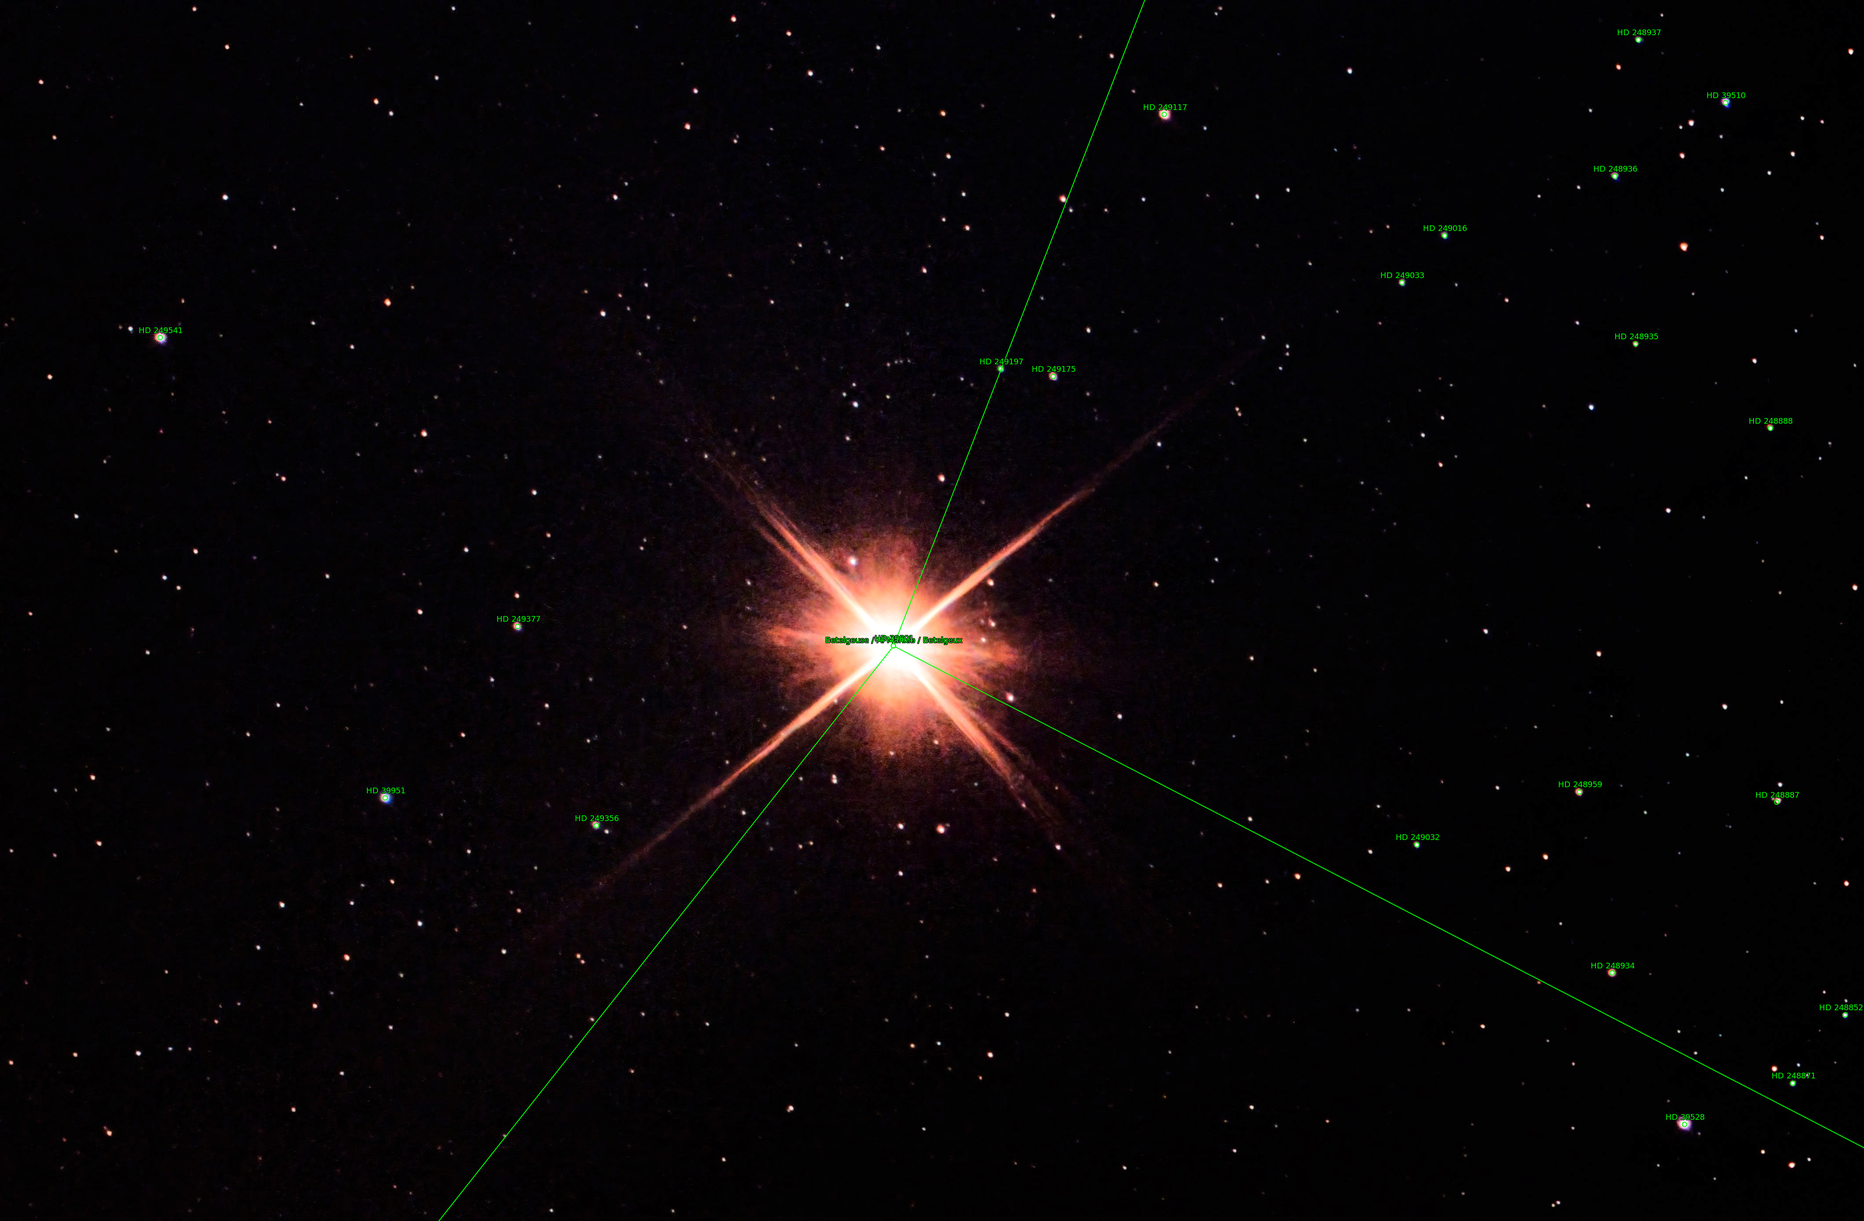
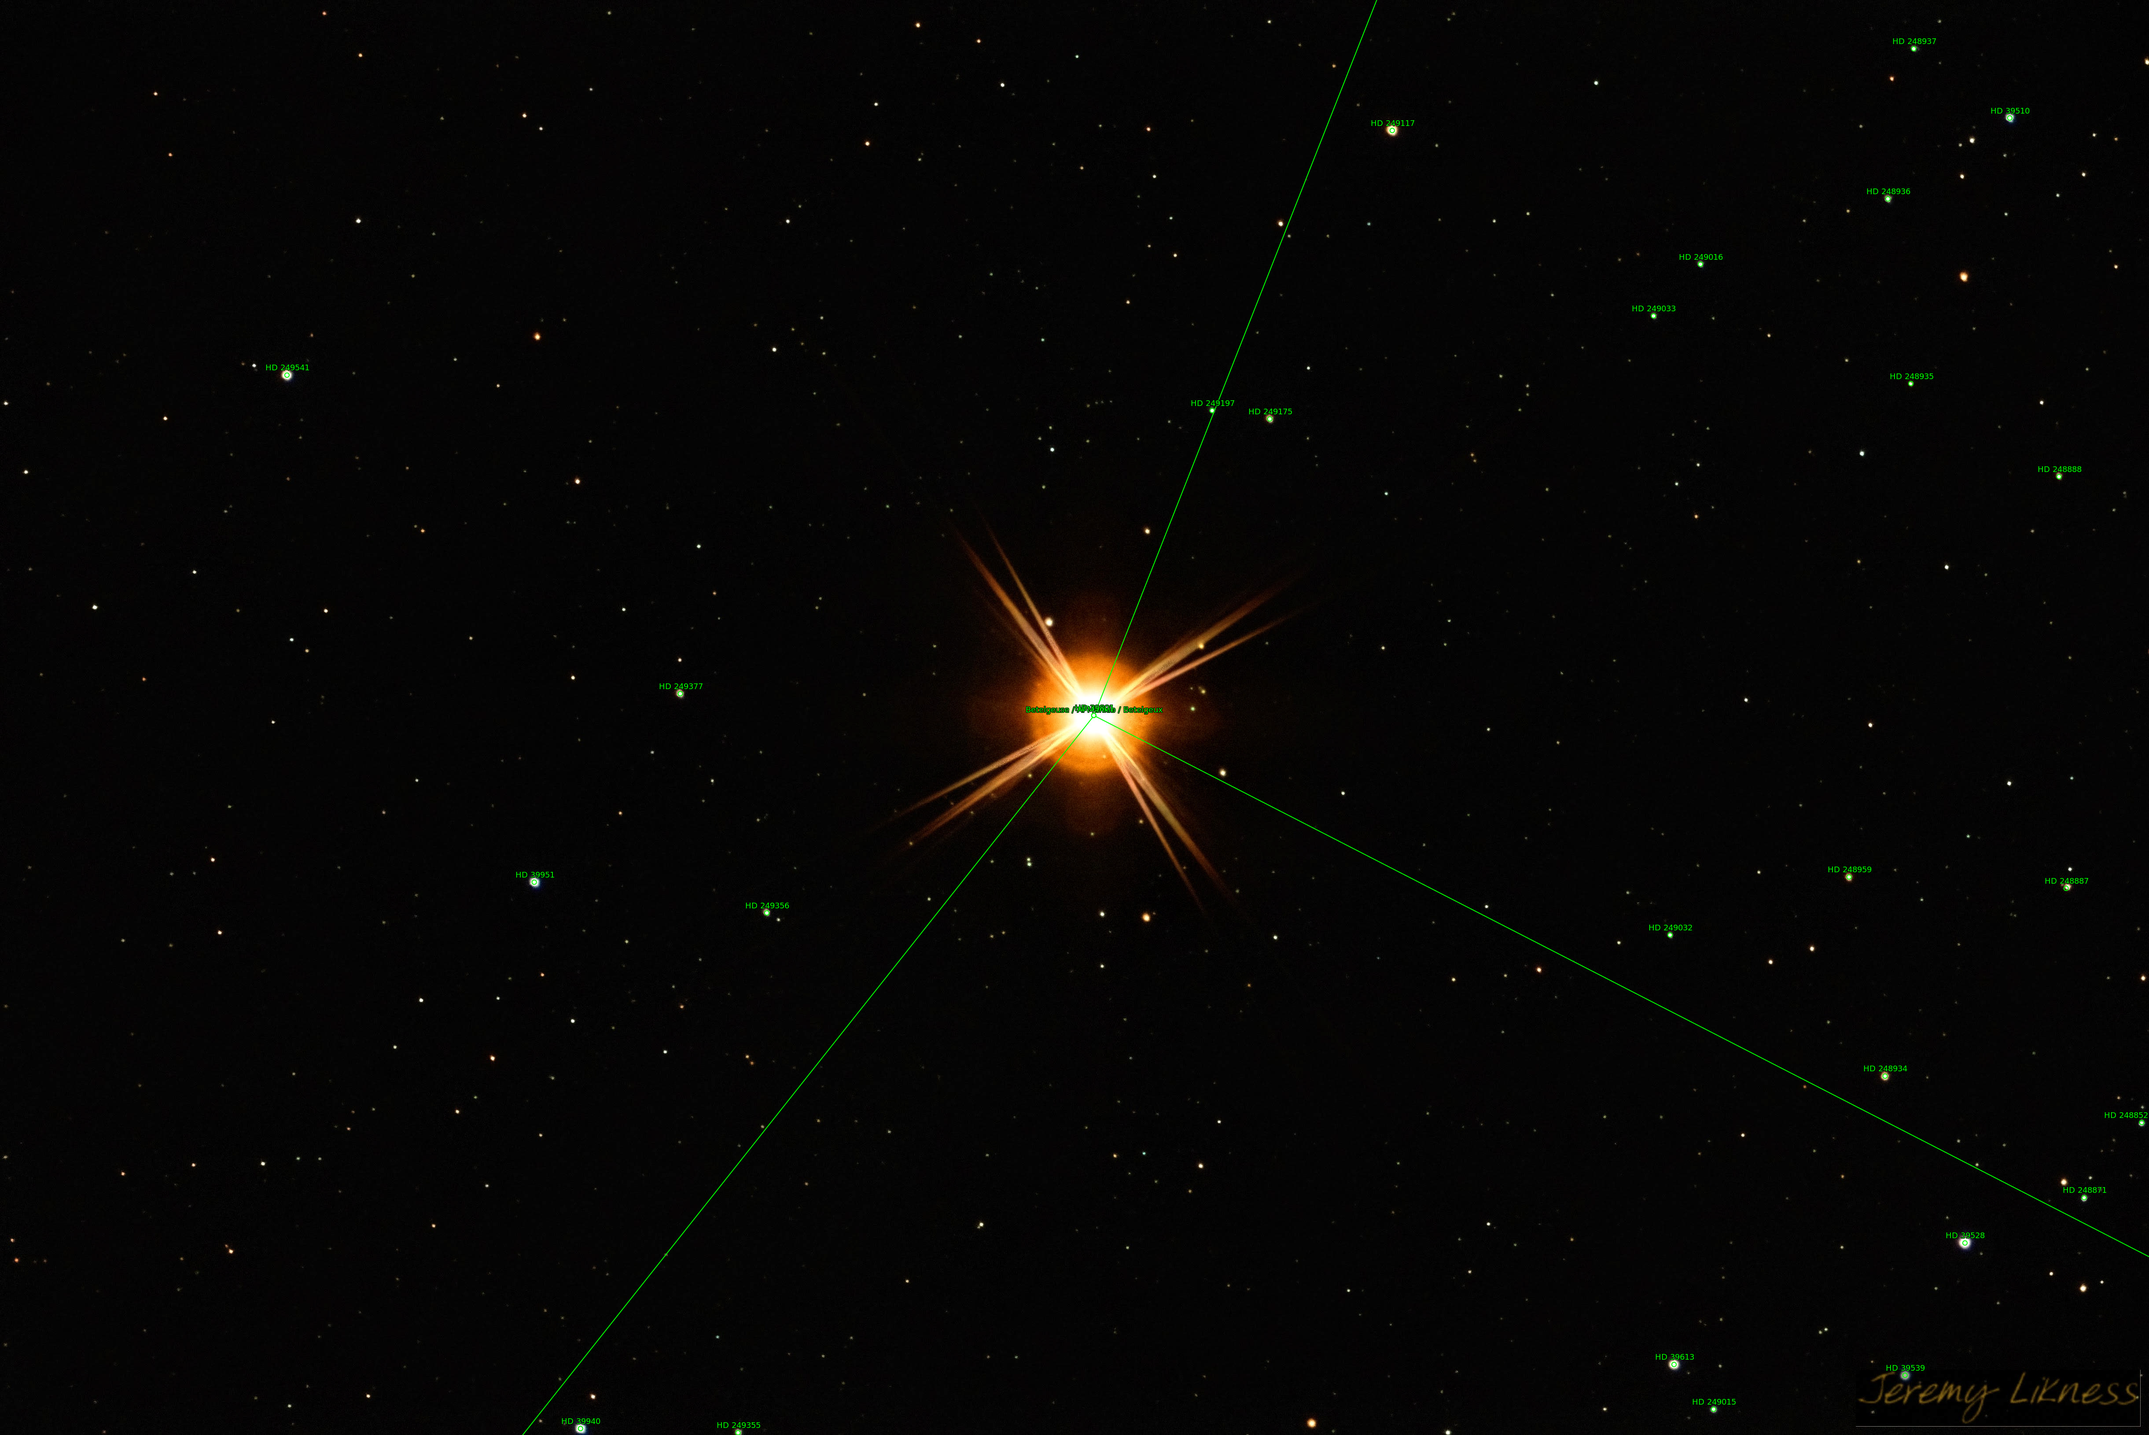
new targets, new blog post

diff --git a/_posts/2021-12-21-2021-in-retrospective-and-favorite-photos.md b/_posts/2021-12-21-2021-in-retrospective-and-favorite-photos.md
@@ -1,0 +1,134 @@
+---
+layout: post
+title:  "2021 in Retrospective and Favorite Photos"
+author: deepskyworkflows
+categories: [ ]
+tags: [ m1, m13, ngc869, ngc884, orion, cassiopeia, m31, m33, moon, ic434, ngc2024, m27, ngc6960, ngc7023, jupiter, betelgeuse ]
+toc: true
+image: assets/images/2021-12-21/2021retrospective.jpg
+description: "A look back at the first year of my astrophotography with my favorite photos from 2021."
+featured: true
+hide: true
+comments: true
+---
+
+In late November of 2020, I was deleting spam mail when an advertisement caught my eye. It was for a telescope, but not just any telescope. This "observation station," named [Stellina](https://vaonis.com/stellina), promised to "explore the sky like never before." Unlike traditional telescopes, Stellina comes with an app instead of an eyepiece. It promises "point and shoot" and the photos I saw were breathtaking. I always loved astronomy and even owned a manual Dobsonian telescope once, but I had moved onto other hobbies. This seemed like an easy way to get back into it. So, after doing some research and fact-checking, I ordered the scope. It came in December, but rain and cloudy skies prevented me from taking it outside until January.
+
+I finally got it outside. I hit "initialize" and waited as the arm swung up and started scanning. I overrode the twilight warning, but initialization failed: too bright. I waited a half hour, then tried again. Initialization succeeded. The recommended target was M1, which sounded like a reasonable place to start. I had no clue that the "M" was for "Messier", a French comet hunter in the 1700s who catalogued nebulae and clusters not because they are beautiful targets, but because he wanted to avoid wasting time on targets that weren't comets! The app showed an intriguing animation like a vortex sucked into a black hole, then a solid ring appeared, faded, and was replaced with an image. I was hooked.
+
+{% include blogimage.html url="oldcrab.jpg" half=true description="M1: The Crab Nebula, my first astrophotograph" target=true %}
+
+(You can see how my skills have improved by looking at the most recent [M1: Crab Nebula](/gallery/m1-crab-nebula/) picture.)
+
+I later joined an online group and was amazed at how much clearer the images posted there were compared to my own. That's when I learned about obtaining the raw files, taking "darks" and "stacking" pictures (if you're not familiar with these terms, watch [Astro Imaging for Complete Beginners](https://youtu.be/2aj7Cwjp1ls) to learn what they mean). I started purchasing software and learned about things like "background neutralization" and "dual frequency processing." I even found that I was repeating common tasks often enough that it made sense to write my own [script library](https://github.com/DeepSkyWorkflows/DeepSkyWorkflowScripts) to eliminate random red, green, and blue pixels, normalize color channels, generate stretched luminance masks and prepare all of the masks and support files for deconvolution.
+
+I decided I was hooked and began to expand my horizons. I decided to order a "traditional" system with a mount and optical tube assembly. I placed the order for my new Celestron 9.25" EdgeHD Schmidt-Cassegrain Telescope (SCT) in September. As of mid-December, it's still on backorder. I gave up on waiting for the Sky Watcher EQ-6 R-Pro and swapped it for a Celestron CGEM-II mount that I [attempted to test drive](https://youtu.be/YHtsnFh7bAA) but was trumped by the weather (twice).
+
+During my channel surfing of YouTube.com astrophotography videos, I came across a video by [Nico Carver](https://www.youtube.com/channel/UCO_gBdHekc74feh0bWqKJ1Q) that demonstrated how you can take deep space photographs with an ordinary camera and tripod. My mind was blown, and I had to try it out. I've been practicing camera-only (no telescope) astrophotography for months now and absolutely love it. Some of my favorite compositions come from my camera, but I'm still blown away but what I've been able to accomplish with Stellina. Looking back on 2021, here are my favorite astronomy-related photographs.
+
+## Cluster
+
+I initially thought that clusters are boring and "common," but I've grown to appreciate them much more. There are so many varieties, and the densely packed globular clusters like [M13 in Hercules](/gallery/m13-hercules/) can be just as beautiful and mesmerizing as the open clusters like [Caroline's Rose](/gallery/ngc7789-carolines-rose/). Without a doubt, however, my favorite photograph of a cluster is the double cluster NGC884 and NGC869, also known as h Persei and χ Persei (h and Chi Persei). The pattern, proximity, and contrast between red and blue stars is mesmerizing.
+
+{% include blogimage.html url="/assets/images/gallery/ngc884-ngc869/ngc884-ngc869.jpg" description="NGC884 and NGC869: The Double Cluster in Perseus" target=true %}
+
+## Constellation
+
+I've enjoyed capturing photographs of constellations, with [Orion](/gallery/orion/) as a common target. My favorite from 2021 was Cassiopeia. The constellation lies over part of the Milky Way, but the deep yellow and blue hues of the main stars make it stand out against the busy backdrop.
+
+{% include blogimage.html url="/assets/images/gallery/cassiopeia/cassiopeia.jpg" description="The Constellation Cassiopeia" target=true %}
+
+## Galaxy
+
+Galaxies are fun targets. They vary in size, shape, and magnitude. I've captured dozens, but I wasn't able to pick just one favorite in this category. Although the Andromeda galaxy is a common target, and Stellina was able to capture it in detail, the field of view was too small to appreciate the full expanse of the target. This was one of my first planned mosaics. I observed several hundred exposures across six different panels that I then combined into a mosaic that includes M31 (the Andromeda Galaxy) along with companions M32 and M110. The mosaic was challenging because the captures happened over multiple nights and the contrast for each panel had to be blended using a combination of advanced masks and "PixelMath" to achieve the final image.
+
+{% include blogimage.html url="/assets/images/gallery/m31-mosaic/m31-mosaic.jpg" description="The Andromeda Galaxy" target=true %}
+
+I wrote a blog post about the significance of my second pick, [M33: Triangulum](/finding-redemption-in-m33-triangulum/), another bright galaxy visible to the naked eye under the right conditions. I imaged this galaxy over multiple sessions but couldn't quite tease out the detail that I wanted. I finally ended up combining 1,200 exposures for a total of 3 hours of exposure time and went with as minimal processing as possible to achieve this result.
+
+{% include blogimage.html url="/assets/images/gallery/m33/m33.jpg" description="The Triangulum Galaxy" target=true %}
+
+## Milky Way
+
+Like many photographers, a great Milky Way shot is a dream goal of mine. A trip to the Paint Mines in Colorado with my daughter and son-in-law yielded this image. It's my favorite to date. I had to take short exposures because I only had a camera and a tripod. Post-processing was tricky due to the contrast between the landscape and the sky. I ended up stacking twice: once with the landscape fixed and the stars blurred, and once with the stars fixed and the landscape blurred, then blended the two. The bright areas between the horizon and the sky are the result of light pollution from a nearby town.
+
+{% include blogimage.html url="/assets/images/gallery/milkyway-field/milkyway-field.jpg" description="The Milky Way at Paint Mines, Colorado" target=true %}
+
+## Moon 
+
+I never get tired of capturing the moon. I've taken hundreds, perhaps thousands of "moonshots" over the past year. Stellina takes stunningly detailed images in black and white. My camera at 200mm captures less detail but more color. I'm extremely happy with this image that I processed by stacking and scaling several 1-second exposures then adding just a touch of color for contrast.
+
+{% include blogimage.html url="/assets/images/gallery/moon-close/moon-close.jpg" description="Close to the Lunar Surface" target=true %}
+
+## Nebulae
+
+My favorite targets are, without a doubt, nebulae. I've captured dozens over the past year and can't pick a single favorite. Here are my top five.
+
+### IC434 and NGC2024
+
+There is one nebula I've always been mesmerized by, and that's the Horsehead Nebula. I've seen detailed pictures from powerful telescopes and am amazed at the intricacy and texture of this target. I was so excited to learn that not only could I capture it with my equipment, but that it is close to the beautiful star, Alnitak, and the brilliant flame nebula (NGC2024). This is a mosaic taken from hundreds of exposures across three panels. (It's been pointed out to me that technically this image should be flipped horizontally to match how it appears in the sky).
+
+{% include blogimage.html url="/assets/images/gallery/ic434-mosaic/ic434-mosaic.jpg" description="The Horse and the Flame" target=true %}
+
+### M27
+
+I initially considered the dumbbell nebula to be a boring target until I realized just how delicate its colors and patterns are. I took advantage of dithering to create a high-resolution image that I then cropped to highlight the nebula and the beautiful and colorful stars that form its backdrop.
+
+{% include blogimage.html url="/assets/images/gallery/m27/m27.jpg" description="The Dumbbell Nebula" target=true %}
+
+### NGC6960 
+
+The second nebula I imaged after the Crab Nebula was the Veil nebula, that along with [the Eastern Veil Nebula](/gallery/ngc6992-veil-nebula/) forms an expanding shell that are the remnants of a supernova explosion. The brilliant star adorning delicate tendrils of red and green are what make this a favorite of mine.
+
+{% include blogimage.html url="/assets/images/gallery/ngc6960/ngc6960.jpg" description="The Veil Nebula" target=true %}
+
+### NGC7023
+
+I'm not finished with the Iris Nebula. This is a reflection nebula. It is a large expanse of cosmic dust visible only due to the reflection of light from brilliant HD 200775, the glowing jewel at its heart. In broadband, it takes hundreds of exposures to draw out the delicate detail of the inky clouds that fan out like petals. I chose this nebula not only for the effort put into the image, but the fact I know I'll be improving on this image in the future.
+
+{% include blogimage.html url="/assets/images/gallery/ngc7023/ngc7023.jpg" description="The Iris Nebula" target=true %}
+
+### Orion's Sword
+
+My last pick is a twist on a popular nebula to photograph because of its brightness and how easy it is to locate: M42, the Great Orion Nebula. The twist is that although M42 is impressive on its own, when you expand the field of view over Orion's sword to include NGC1997 "The Running Man" you end up with a beautiful composition with contrasts between the reds and cyans of M42 and the blues and purples of NGC1977.
+
+{% include blogimage.html url="/assets/images/gallery/orion-sword-400mm/orion-sword-400mm.jpg" description="Orion's Sword: NGC1977, M42, and M43" target=true %}
+
+## Planet
+
+At 400mm, Stellina is not ideal for photographing planets as their apparent size is quite small. That's why I was surprised when I found I could stack several dozen images and draw out enough detail to see the bands and even the moons. In this particular capture, you can just barely make out the Great Red Spot.
+
+{% include blogimage.html url="/assets/images/gallery/jupiter/jupiter.jpg" description="Jupiter with Callisto, Europa, Io, and Ganymede" target=true %}
+
+## Shooting star 
+
+During a trip to Colorado to visit my daughter and son-in-law, they drove me to a local area known as Paint Mines near Colorado Springs. They picked the spot as a dark location farther away from town, and I captured some great shots. As we were leaving, I realized I hadn't actually seen the rock formations that give the area its name. So, I set up for a long exposure to capture what detail I could at that late hour. As I was taking the picture, a brilliant orange meteor exploded across the sky. My son-in-law saw it and asked, "Did you see that?" I not only saw it, I caught it on camera!
+
+{% include blogimage.html url="/assets/images/gallery/fire-in-the-sky/fire-in-the-sky.jpg" description="A shooting star over Paint Mines, Colorado" target=true %}
+
+## Star
+
+I love taking photographs of bright stars. They have an amazing variety of sizes, brightness, and color. Betelgeuse is a favorite target because it is large, bright, easily visible to the naked eye and shows up in vivid color when photographed.
+
+{% include blogimage.html url="/assets/images/gallery/betelgeuse/betelgeuse.jpg" description="Betelgeuse" target=true %}
+
+## Wide field
+
+Last but not least, I've taken a variety of "wide field" shots just to capture stars and landscape. Although I have a lot of work to do with my compositions, I was really happy with this particular framing. It's at an angle due to the [Star Adventurer configuration](/camera-astrophotography-with-tracking-hardware/) I used, but I love the detail and contrast of the trees and stars.
+
+{% include blogimage.html url="/assets/images/gallery/treesandsky/treesandsky.jpg" description="Trees and Sky" target=true %}
+
+## What's next
+
+2021 has been an exciting year, but I'm looking forward to 2022. I plan to capture more wide-angle nebulae shots with my mirrorless Sony Alpha 6300 and the help of my newly acquired [CGEM II mount](https://youtu.be/YHtsnFh7bAA). I will find some dark sky locations to take better shots with the Stellina. When my Celestron 9.25" EdgeHD Schmidt-Cassegrain telescope arrives, I'll be taking photographs to the next level. I anticipate some great planetary shots as well as more detailed nebula and galaxies, especially when I incorporate filters. My goal targets for 2022 include:
+
+- Wide angle composition of Heart Nebula using my camera
+- Andromeda galaxy with my camera
+- A quality capture of Thor's Helmet
+- Wide angle shot of the North American Nebula region
+- Revisit M16: The Eagle Nebula and the Pillars of Creation
+- Mars, Jupiter, Saturn and the moon with my new telescope
+
+I'll continue to produce content like this blog and [these videos](https://www.youtube.com/channel/UCGTfyv52aBiubARo3t30MAQ) to benefit the community. I am also working on a tool that takes the concept of [CameraTouch](https://github.com/DeepSkyWorkflows/CameraTouch) to the next level. Think of it as a database that scans your images and loads metadata so you can easily query and organize your files. For example, you can say "Give me a list of exposures at 50mm to 60mm for 1 second or longer" then "move the files into directories based on ISO and date." Stay tuned!
+
+Thank you for your support in 2021 and I look forward to an incredible 2022. 

diff --git a/_posts/2021-11-28-camera-astrophotography-with-tracking-hardware.md b/_posts/2021-11-28-camera-astrophotography-with-tracking-hardware.md
@@ -56,6 +56,10 @@ It's called the [Sky Watcher Star Adventurer Mini](https://amzn.to/3xvqBdI). Mos
 
 Let's go from the bottom of the stack up.
 
+I also produced a [complete guide to the Star Adventurer Mini (SAM)](https://youtu.be/XC4Nqh0VbKg) video:
+
+{% include youtube.html code="XC4Nqh0VbKg" title="A complete guide to the Star Adventurere Mini (SAM)" %}
+
 ### Equatorial wedge
 
 The equatorial wedge is the base of the structure that must be aligned. It has knobs to fine tune the declination and right ascension of your whole setup. This is a key piece of the polar alignment as it forms the stable base that allows the rest of the setup to move freely so you can sight your targets and start tracking. The front of this should point to true north (or south) and the surface should be at an angle so that a perpendicular line will go through the north pole. 

diff --git a/_gallery/betelgeuse.md b/_gallery/betelgeuse.md
@@ -1,0 +1,21 @@
+---
+title: "Betelgeuse"
+type: Star
+tags: ["The star Betelgeuse (αOri)"]
+description: Brilliant orange Betelgeuse is a red supergiant that adorns Orion's shoulder and is one of the lagest stars the human eye can perceive. In our solar sytem, the edge of Betelgeuse would exend beyond the orbit of Mars. 
+image: /assets/images/gallery/betelgeuse/thumb.jpg
+telescope: Stellina
+length: "400mm"
+aperture: "80mm"
+folder: betelgeuse
+exposure: 1
+lights: 47
+sessions: 3
+firstCapture: 2021-08-29    
+lastCapture: 2021-09-16
+ra: "5h 55m 12.5s"
+dec: "+7° 24' 29.048"
+size: "61.015 x 40.731 arcmin"
+radius: "0.611 deg"
+scale: "0.75 arcsec/pixel"
+---

diff --git a/_posts/2021-11-27-camera-processing-workflow-with-pixinsight.md b/_posts/2021-11-27-camera-processing-workflow-with-pixinsight.md
@@ -7,7 +7,7 @@ tags: [ pixinsight, processing, M42, NGC1977, NGC2024, deconvolution ]
 toc: false
 image: assets/images/2021-11-27/camera.jpg
 description: "A full end-to-end processing workflow for my camera-only (no telescope) photos focused on PixInsight. Contains some advanced tips for rounding stars, stretching contrast, and making masks."
-featured: true
+featured: false
 hide: true
 comments: true
 ---

diff --git a/_gallery/treesandsky.md b/_gallery/treesandsky.md
@@ -1,0 +1,17 @@
+---
+title: "Trees and Sky"
+type: Miscellaneous
+tags: []
+description: "A sky full of stars over wintering trees."
+image: /assets/images/gallery/treesandsky/thumb.jpg
+telescope: Sony ILCE-6300
+length: "16mm"
+aperture: "4.57mm"
+folder: treesandsky
+exposure: 20
+lights: 1
+sessions: 1
+firstCapture: 2021-12-04
+lastCapture:
+noannotations: true
+---

diff --git a/_posts/2021-09-27-astrophotography-without-a-telescope.md b/_posts/2021-09-27-astrophotography-without-a-telescope.md
@@ -7,7 +7,7 @@ tags: [ camera, m42, exposure, stacking ]
 toc: true
 image: assets/images/gallery/orion/orion-annotated-fs.jpg
 description: "How to take deep sky pictures of galaxies and nebulae using nothing but a camera and a tripod."
-featured: true
+featured: false
 hide: true
 comments: true
 ---
